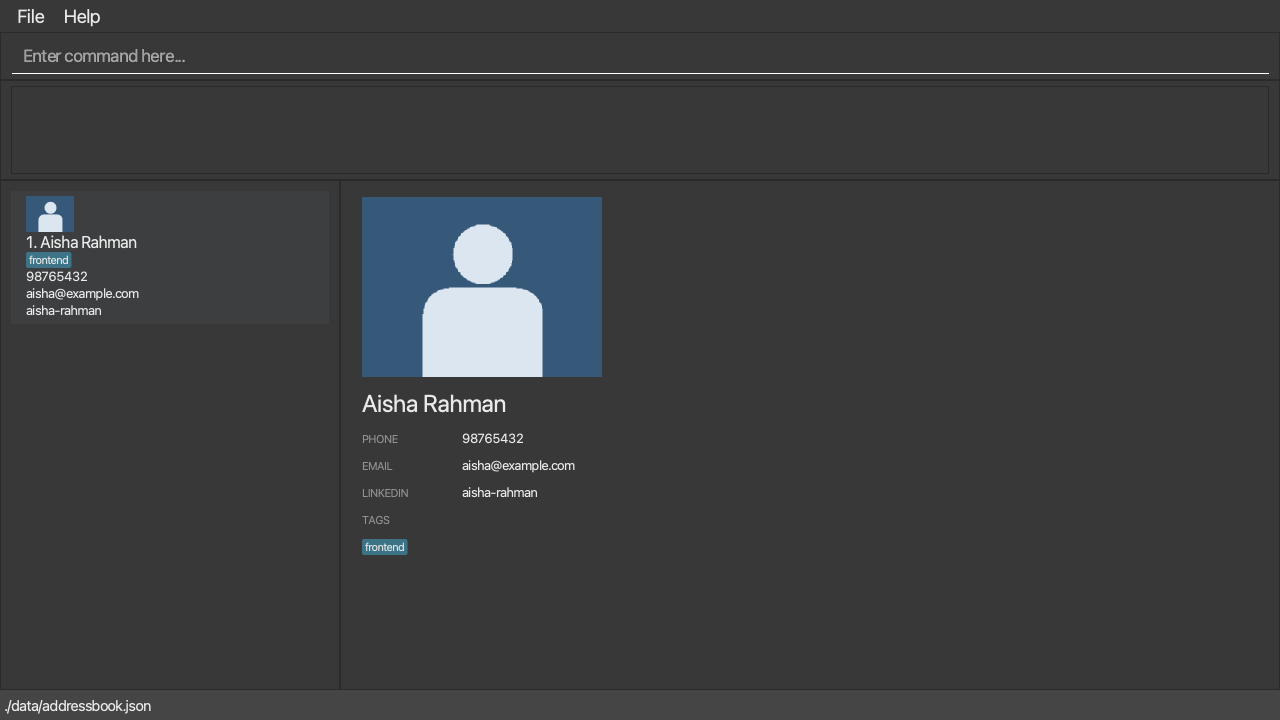
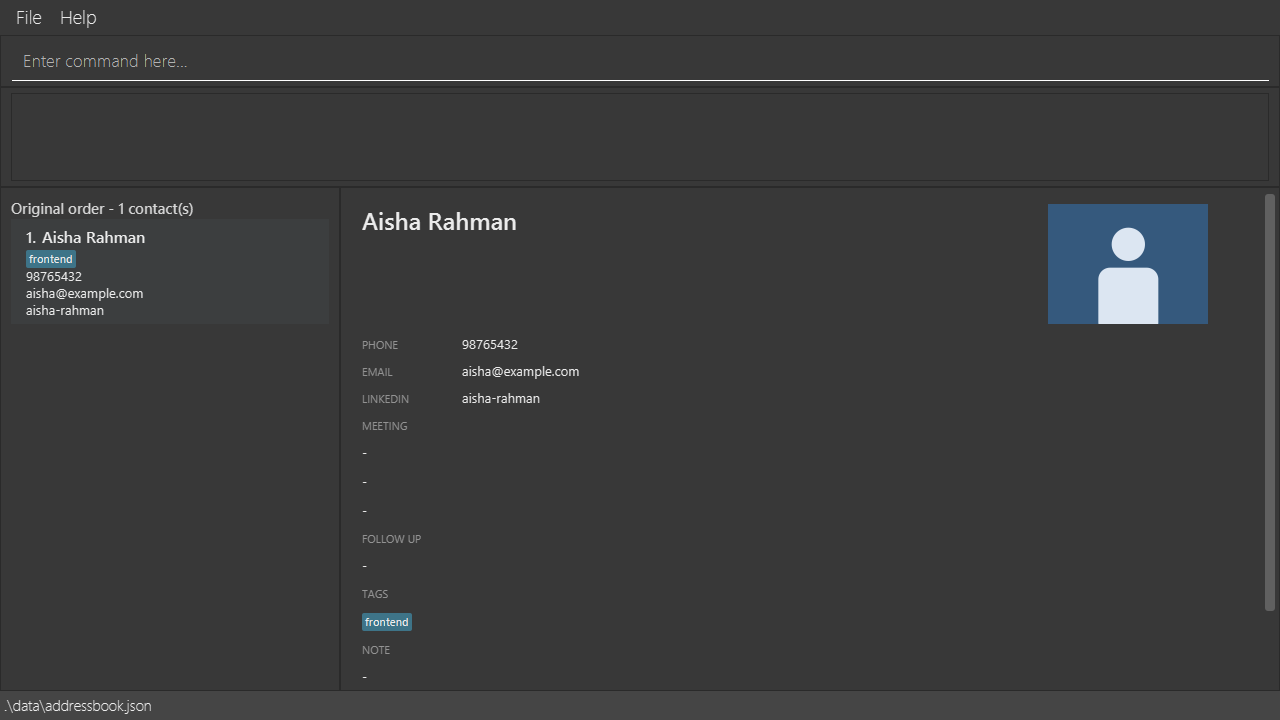
Update photo screenshots and UI diagram
Retake the two user guide photo screenshots for the new layout, remove
the arrow from PersonCard to ContactPhoto in the UI class diagram, and
update the ContactPhoto comment and a test name that still mentioned
cards. Describe the narrow panel layout in both guides.

diff --git a/docs/DeveloperGuide.md b/docs/DeveloperGuide.md
@@ -81,7 +81,9 @@ The `UI` component uses the JavaFX UI framework. The layouts of these UI parts a
 `PersonDetailPanel` uses `ContactPhoto` to display a bounded image from validated `PhotoStorage` bytes. The photo
 is shown only in the detail panel, to the right of the name, in a fixed 160×120 frame (`#photoFrame` in
 `PersonDetailPanel.fxml`); the image is scaled to fit inside it, and the "No photo" placeholder fills the same
-frame, so the layout does not change with the shape of the photo. `PersonCard` shows no photo. A single
+frame, so the layout does not change with the shape of the photo. The name and the frame are in a `GridPane`
+(`#header`); when the header is narrower than 400 pixels (`PersonDetailPanel#isNarrowHeader`), the panel moves
+the frame below the name so that a long name is not squeezed into a narrow column. `PersonCard` shows no photo. A single
 background worker performs file validation and image decoding, so showing a contact does not block the JavaFX
 thread on photo reads. A placeholder is shown until loading finishes. Replaced requests cancel queued photo work;
 an already-running decode can finish, but its stale result is never displayed.

diff --git a/docs/UserGuide.md b/docs/UserGuide.md
@@ -497,7 +497,9 @@ An invalid displayed index reports `The person index provided is invalid.`
 
 The photo is shown only in the detail panel (`view INDEX`), to the right of the contact's name, and not in
 the contact list. It is scaled to fit inside a fixed 160×120 frame, preserving its aspect ratio, so photos of
-different shapes never change the layout. Absent, missing, malformed, or unreadable references show a
+different shapes never change the layout. If the detail panel is too narrow for the photo and the name
+side by side (for example when the window is at its minimum width), the photo is shown under the name
+instead. Absent, missing, malformed, or unreadable references show a
 "No photo" placeholder of the same size;
 unavailable images also produce a log warning and do not prevent other contacts loading.
 Unsafe saved paths are never opened. Old JSON without `photoPath` loads with no photo.
